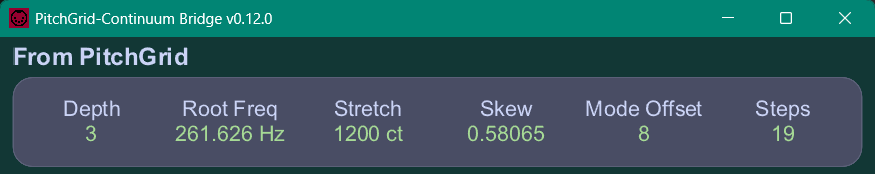
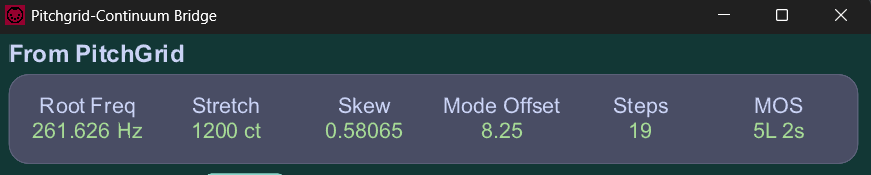
Show MOS steps

diff --git a/src/ui_methods.rs b/src/ui_methods.rs
@@ -143,13 +143,13 @@ impl ControllerCallbacks for UiMethods {
         // println!("UiMethods.show_tuning");
         self.with_main_window(move |main_window| {
             let params = tuner::formatted_tuning_params();
-            // TODO: UI changes needed to display mos_a and mos_b instead of depth.
-            // main_window.set_depth(params.depth.into());
             main_window.set_root_freq(params.root_freq.into());
             main_window.set_stretch(params.stretch.into());
             main_window.set_skew(params.skew.into());
             main_window.set_mode_offset(params.mode_offset.into());
             main_window.set_steps(params.steps.into());
+            let mos = format!("{}L {}s", params.mos_a, params.mos_b);
+            main_window.set_mos(mos.into());
         });
     }
 

diff --git a/README.md b/README.md
@@ -20,7 +20,8 @@ PitchGrid-Continuum Bridge has so far only been tested with the Continuum.  But 
 
 ### Required Software
 
-The current version of PitchGrid-Continuum Bridge works with PitchGrid 0.33.  PCB will need to be updated to support breaking changes expected in the next version of PitchGrid.  Haken Editor is also required.
+PitchGrid 0.3.4 or later
+Haken Editor
 
 ## Connections
 
@@ -79,7 +80,7 @@ Whenever a preset is subsequently loaded on the instrument, PCB will update it w
 <img src="images\Tuning Parameters - PitchGrid.png" alt="Tuning Parameters - PitchGrid" style="zoom: 80%;" />
 <img src="images\Tuning Parameters - PCB.png" alt="Tuning Parameters - PCB" style="zoom: 80%;" />
 
-Once the tuning of the instrument's current preset has been updated in accordance with the tuning parameters received from PitchGrid, PCB displays the applied tuning parameters.  The displayed values may differ from what you can see in PitchGrid in two respects.
+Once the tuning of the instrument's current preset has been updated in accordance with the tuning parameters received from PitchGrid, PCB displays the applied tuning parameters.  Instead of Depth, PCB receives and displays the MOS system's counts of large and small steps, which vary with Depth. The displayed values may differ from what you can see in PitchGrid in two respects.
 
 - More decimal places are shown.  This is because some PitchGrid tunings cannot be distinguished from each other with the number of decimal places currently shown in PitchGrid, and it is not possible to show the tuning preset name in PCB.
 - If a **Root Frequency Override** note is specified in PCB (see below), **Root Freq** will show the overriding note's frequency.
